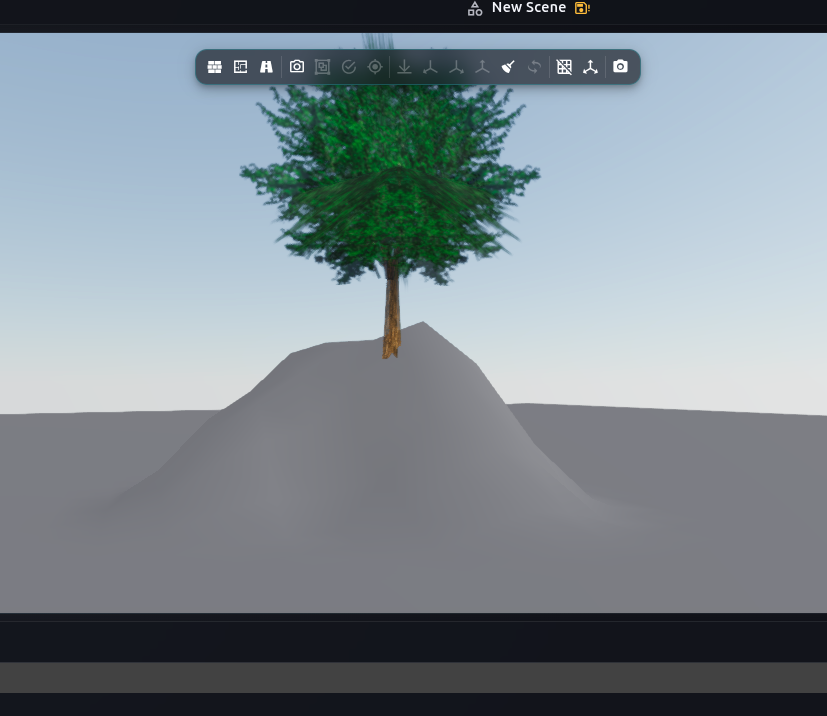
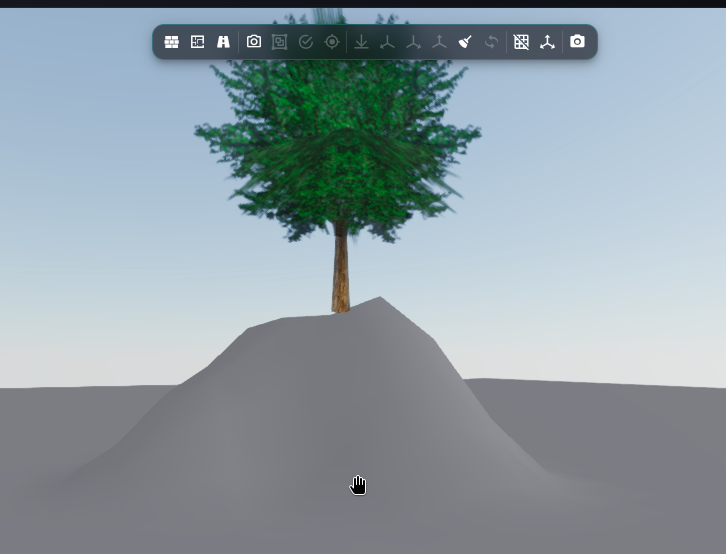
桍

diff --git a/editor/src/components/editor/SceneViewport.vue b/editor/src/components/editor/SceneViewport.vue
@@ -6325,18 +6325,7 @@ async function handlePointerUp(event: PointerEvent) {
         const asset = sceneStore.getAsset(session.assetId)
         if (asset && (asset.type === 'model' || asset.type === 'mesh' || asset.type === 'prefab')) {
           const placement = computePointerDropPlacement(event)
-          const spawnPoint = placement?.point ? placement.point.clone() : new THREE.Vector3(0, 0, 0)
-          snapVectorToGrid(spawnPoint)
-          const groundNodeId = resolveGroundNodeIdForPlacement()
-          const shouldSnapToHeightfield =
-            placement?.kind === 'planeFallback'
-            || (placement?.kind === 'surfaceHit' && Boolean(groundNodeId) && placement.hitNodeId === groundNodeId)
-          if (shouldSnapToHeightfield) {
-            const heightfieldY = sampleHeightfieldWorldYAt(spawnPoint)
-            if (typeof heightfieldY === 'number' && Number.isFinite(heightfieldY)) {
-              spawnPoint.y = heightfieldY
-            }
-          }
+          const spawnPoint = computePreviewPointForPlacement(placement) ?? new THREE.Vector3(0, 0, 0)
           const parentGroupId = resolveSelectedGroupDropParent()
           const rotation = new THREE.Vector3(0, placementPreviewYaw, 0)
           try {
@@ -6797,13 +6786,15 @@ function computePreviewPointForPlacement(placement: PlacementHitResult | null): 
   }
 
   const spawnPoint = placement.point.clone()
-  snapVectorToGrid(spawnPoint)
-
   const groundNodeId = resolveGroundNodeIdForPlacement()
-  const shouldSnapToHeightfield =
-    placement.kind === 'planeFallback'
-    || (placement.kind === 'surfaceHit' && Boolean(groundNodeId) && placement.hitNodeId === groundNodeId)
+  const isGroundHit =
+    placement.kind === 'surfaceHit' && Boolean(groundNodeId) && placement.hitNodeId === groundNodeId
 
+  if (!isGroundHit) {
+    snapVectorToGrid(spawnPoint)
+  }
+
+  const shouldSnapToHeightfield = placement.kind === 'planeFallback' || isGroundHit
   if (shouldSnapToHeightfield) {
     const heightfieldY = sampleHeightfieldWorldYAt(spawnPoint)
     if (typeof heightfieldY === 'number' && Number.isFinite(heightfieldY)) {
@@ -6829,7 +6820,7 @@ function computeDropPlacement(event: DragEvent): PlacementHitResult | null {
     const surfaceHit = computePlacementSurfaceHit()
     if (surfaceHit) {
       return {
-        point: snapVectorToGrid(surfaceHit.point),
+        point: surfaceHit.point,
         kind: 'surfaceHit',
         hitNodeId: surfaceHit.nodeId,
       }
@@ -6838,7 +6829,7 @@ function computeDropPlacement(event: DragEvent): PlacementHitResult | null {
 
   const planeHit = new THREE.Vector3()
   if (raycaster.ray.intersectPlane(groundPlane, planeHit)) {
-    return { point: snapVectorToGrid(planeHit.clone()), kind: 'planeFallback', hitNodeId: null }
+    return { point: planeHit.clone(), kind: 'planeFallback', hitNodeId: null }
   }
   return null
 }
@@ -6858,7 +6849,7 @@ function computePointerDropPlacement(event: PointerEvent): PlacementHitResult | 
     const surfaceHit = computePlacementSurfaceHit()
     if (surfaceHit) {
       return {
-        point: snapVectorToGrid(surfaceHit.point),
+        point: surfaceHit.point,
         kind: 'surfaceHit',
         hitNodeId: surfaceHit.nodeId,
       }
@@ -6867,7 +6858,7 @@ function computePointerDropPlacement(event: PointerEvent): PlacementHitResult | 
 
   const planeHit = new THREE.Vector3()
   if (raycaster.ray.intersectPlane(groundPlane, planeHit)) {
-    return { point: snapVectorToGrid(planeHit.clone()), kind: 'planeFallback', hitNodeId: null }
+    return { point: planeHit.clone(), kind: 'planeFallback', hitNodeId: null }
   }
   return null
 }
@@ -7335,18 +7326,7 @@ async function handleViewportDrop(event: DragEvent) {
   }
 
   const placement = computeDropPlacement(event)
-  const spawnPoint = placement?.point ? placement.point.clone() : new THREE.Vector3(0, 0, 0)
-  snapVectorToGrid(spawnPoint)
-  const groundNodeId = resolveGroundNodeIdForPlacement()
-  const shouldSnapToHeightfield =
-    placement?.kind === 'planeFallback'
-    || (placement?.kind === 'surfaceHit' && Boolean(groundNodeId) && placement.hitNodeId === groundNodeId)
-  if (shouldSnapToHeightfield) {
-    const heightfieldY = sampleHeightfieldWorldYAt(spawnPoint)
-    if (typeof heightfieldY === 'number' && Number.isFinite(heightfieldY)) {
-      spawnPoint.y = heightfieldY
-    }
-  }
+  const spawnPoint = computePreviewPointForPlacement(placement) ?? new THREE.Vector3(0, 0, 0)
   const parentGroupId = resolveSelectedGroupDropParent()
   try {
     const selectedId = props.selectedNodeId
